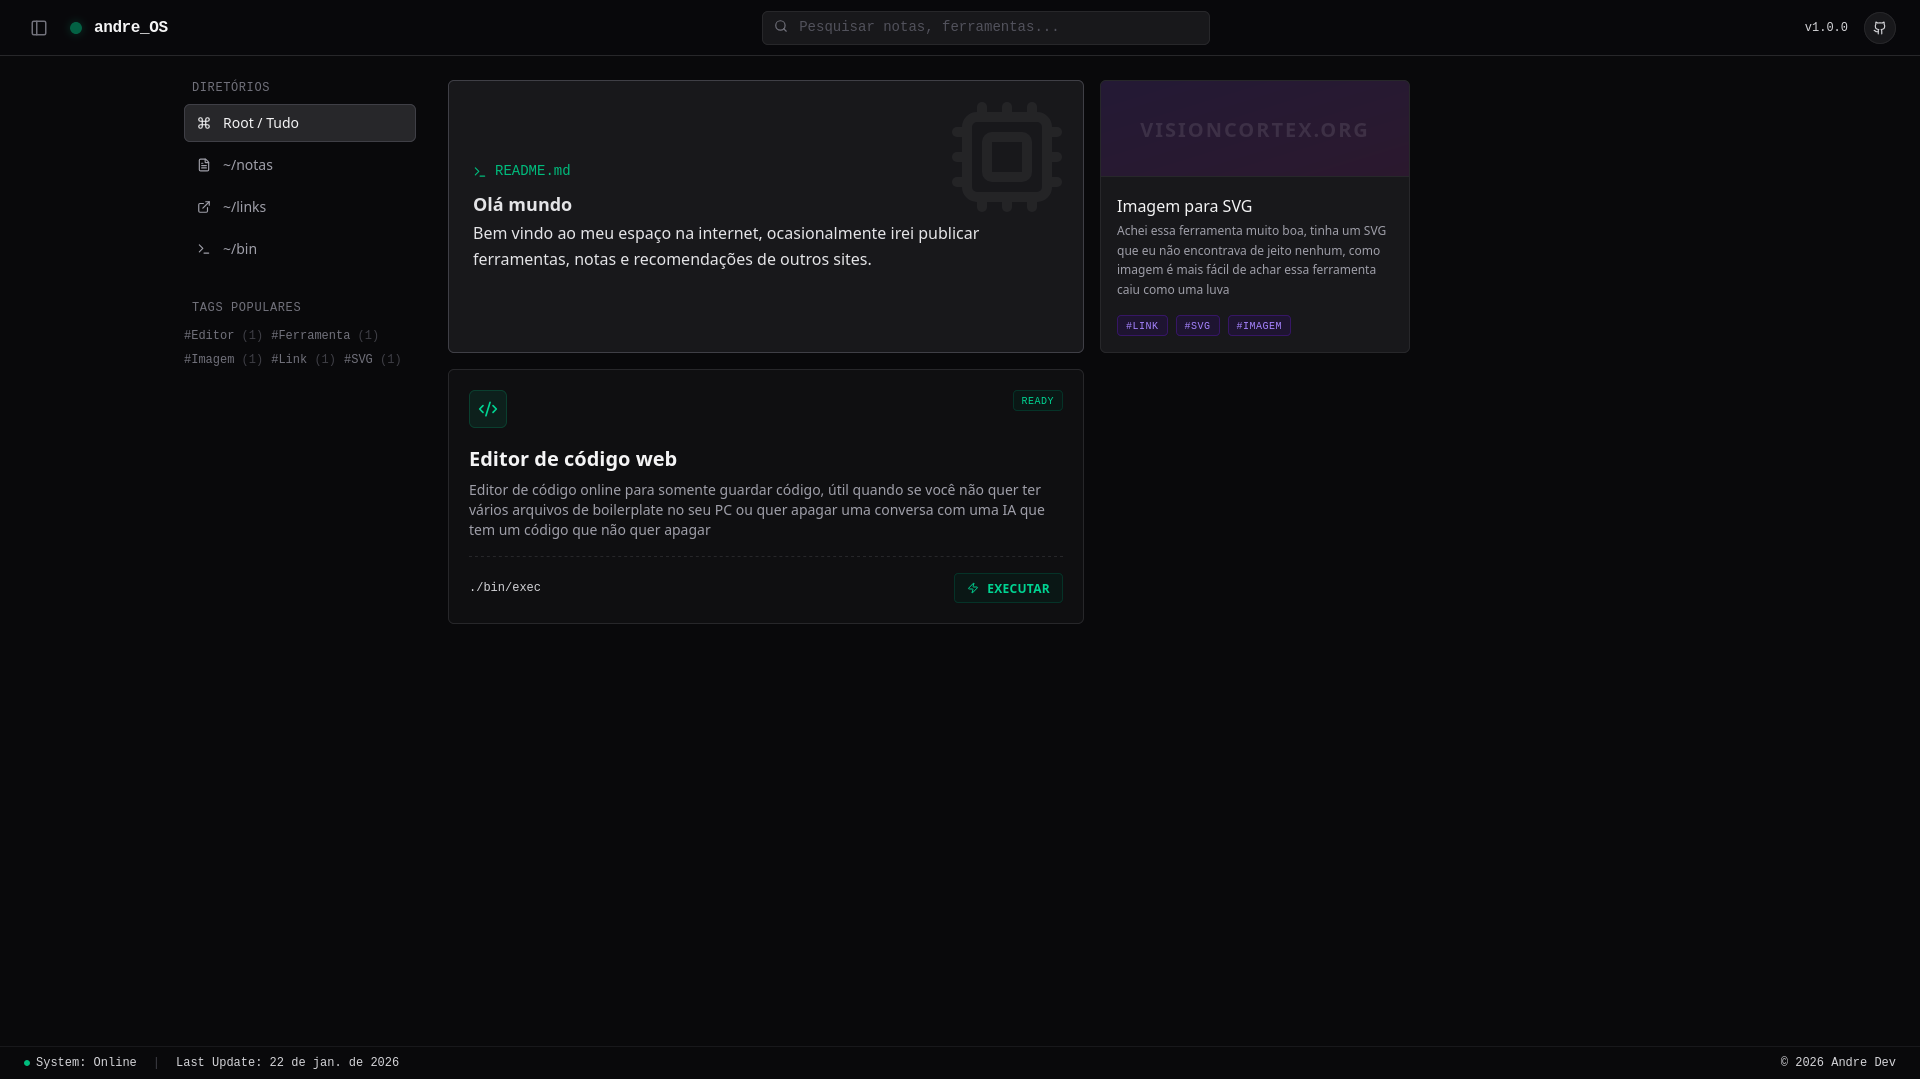
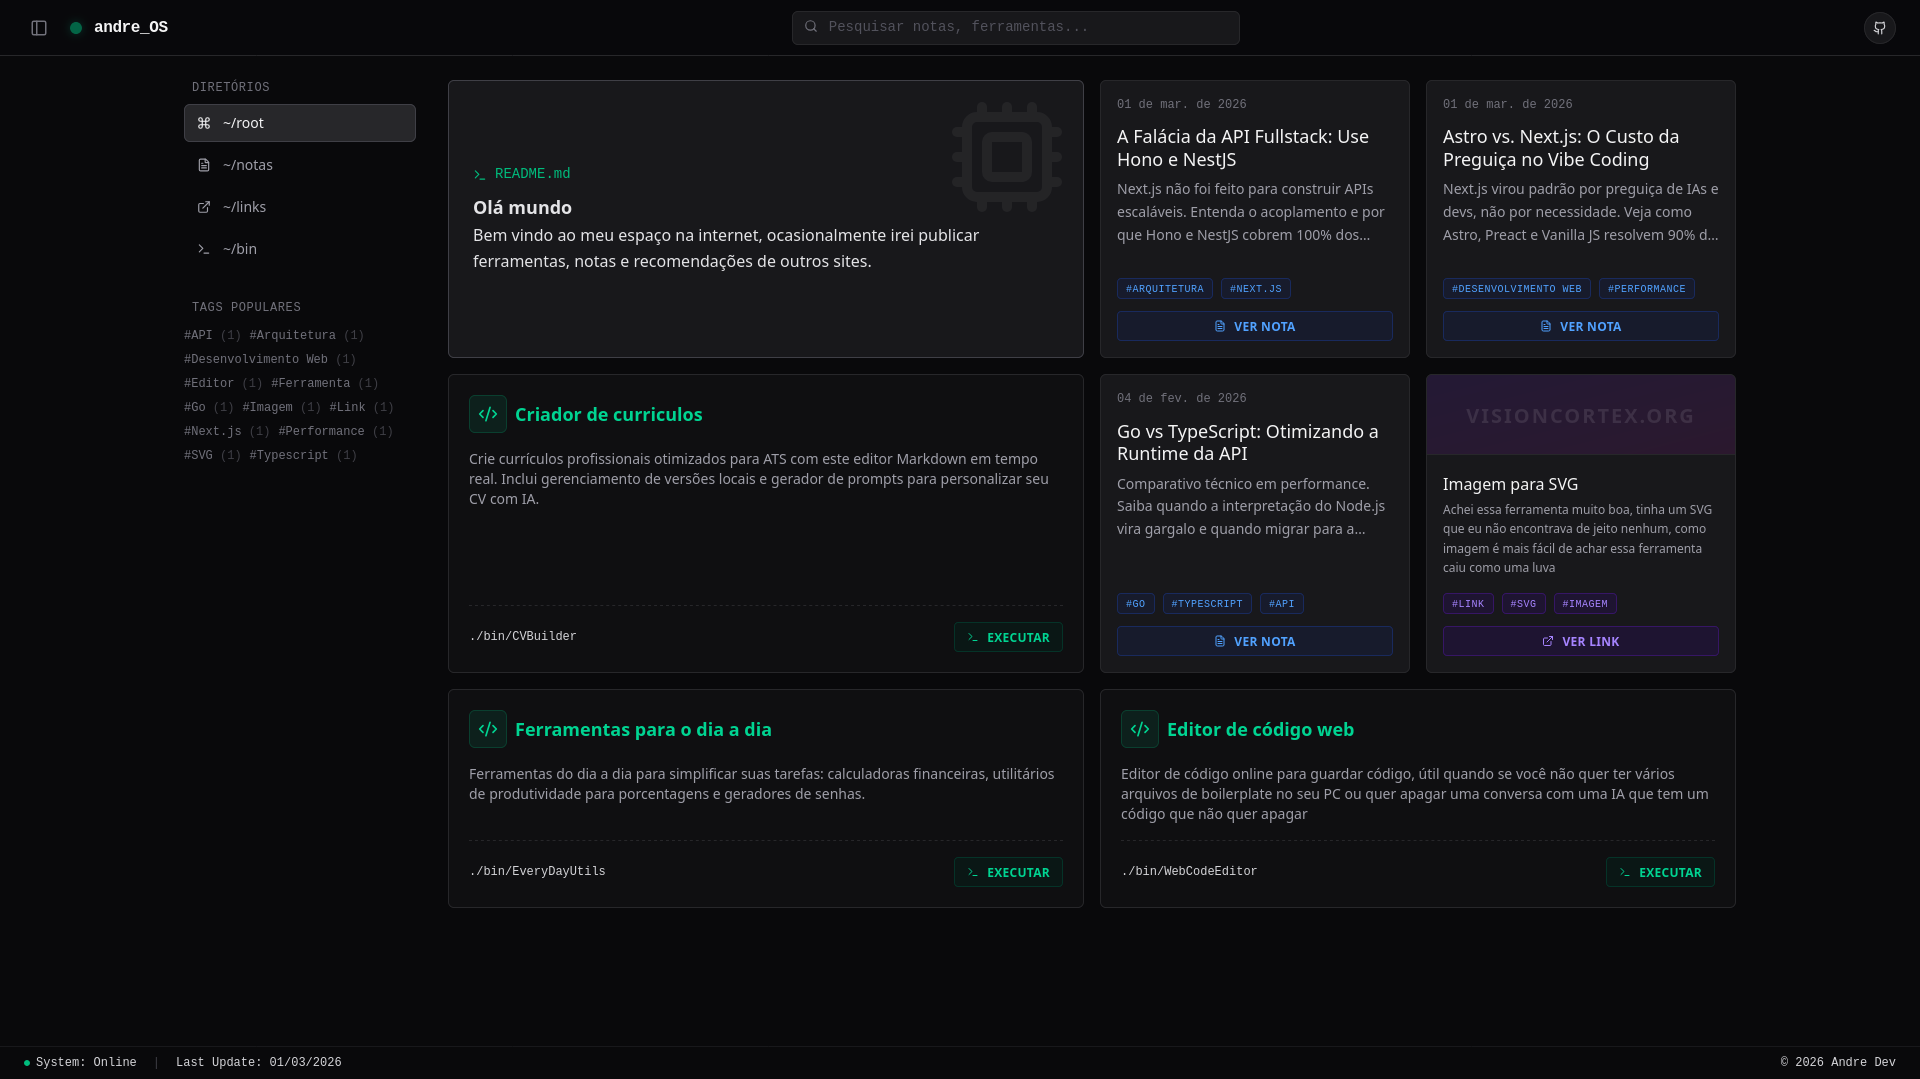
fix(images): altura 800×600 em optimizeImage e layout estável nos cards de projeto

diff --git a/src/sections/Projects.tsx b/src/sections/Projects.tsx
@@ -125,9 +125,9 @@ function ProjectCard({ project }: { project: Project }) {
 		<div className="flex h-full min-h-0 flex-col overflow-hidden rounded-xl border border-border/60 bg-surface shadow-sm transition-all hover:border-primary/30 hover:shadow-xl lg:flex-row lg:[&:has([data-project-preview]:hover)]:z-20 lg:[&:has([data-project-preview]:hover)]:overflow-visible">
 			<div
 				data-project-preview
-				className="group/project relative flex h-56 w-full shrink-0 flex-col overflow-hidden border-b-2 border-primary bg-surfaceAlt lg:h-[260px] lg:w-[min(50%,28rem)] lg:max-w-md lg:overflow-visible lg:border-b-0 lg:border-r-2 lg:border-r-primary lg:group-hover/project:overflow-visible"
+				className="group/project relative flex h-56 w-full shrink-0 flex-col overflow-hidden border-b-2 border-primary bg-surfaceAlt lg:h-auto lg:min-h-[260px] lg:w-[min(50%,28rem)] lg:max-w-md lg:overflow-visible lg:border-b-0 lg:border-r-2 lg:border-r-primary lg:group-hover/project:overflow-visible"
 			>
-				<div className="relative h-full min-h-0 overflow-hidden lg:overflow-visible lg:group-hover/project:overflow-visible">
+				<div className="relative min-h-0 flex-1 overflow-hidden lg:overflow-visible lg:group-hover/project:overflow-visible">
 					{status !== "loaded" && (
 						<div className="absolute inset-0 z-10 flex items-center justify-center bg-surfaceAlt">
 							{status === "loading" ? (

diff --git a/src/lib/optimizeImages.ts b/src/lib/optimizeImages.ts
@@ -20,7 +20,7 @@ export async function optimizeCompactImage(relativePath: string) {
 		src: imageModule.default,
 		width: 200,
 		format: "webp",
-		quality: 100,
+		quality: 90,
 	});
 
 	return compactImage.src;
@@ -39,6 +39,7 @@ export async function optimizeImage(relativePath: string) {
 	const fullImage = await getImage({
 		src: imageModule.default,
 		width: 800,
+		height: 600,
 		format: "webp",
 		quality: 70,
 	});
